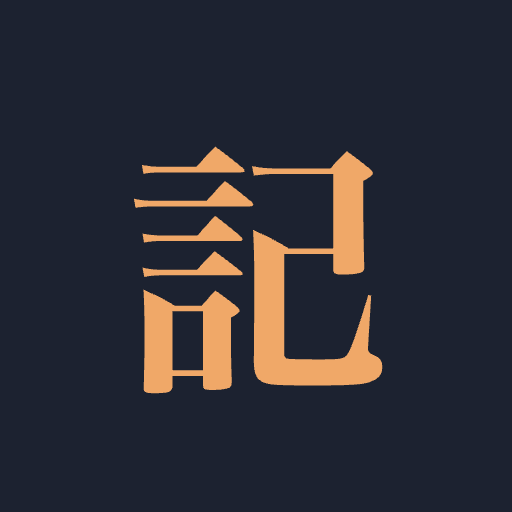
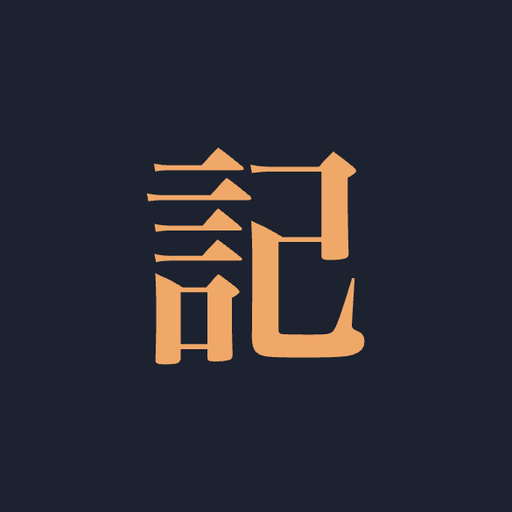
マスク版アイコンに余白を持たせ、中央に揃える
Android の丸型・角丸マスクでは中央 80%（半径 205px）の外側が
削られる。従来のマスク版は通常版とほぼ同じ絵で、グリフの最大
半径が 186px と余裕がなく、さらに中心から下に 13px ずれていた
ため、端末によっては「記」の角が縁に接して見えていた。

グリフを外接矩形の中心で揃えたうえで 0.88 倍に縮め、最大半径を
154px（セーフゾーンに対し 25% の余白）にした。円マスク適用後の
可視域に占める大きさは 53% で、見た目の重さは従来とほぼ変わらない。

差し替えたアセットが古いキャッシュに残らないよう、CACHE と BUILD
を v16 に上げた。

Claude-Session: https://claude.ai/code/session_012q5HBjVRGqHM8JjhZm2TdC

Changed region(s): [[0.25, 0.2812, 0.75, 0.7812]]

diff --git a/app.js b/app.js
@@ -11,7 +11,7 @@ const DAY = 86400000;
 const ACCENTS = ["#B8452C", "#3E7C6B", "#3B4C86", "#96702A", "#6B4E7C"];
 const IMPORT_MAX = 2000; // 一度に取り込める上限枚数
 // 同期画面に表示する版数。sw.js の CACHE と揃えて上げること（今どのビルドが動いているかの確認用）。
-const BUILD = "v15";
+const BUILD = "v16";
 
 const C = {
   bg: "#F3EFE6",

diff --git a/sw.js b/sw.js
@@ -1,4 +1,4 @@
-const CACHE = 'kioku-v15';
+const CACHE = 'kioku-v16';
 const ASSETS = [
   './',
   './index.html',
